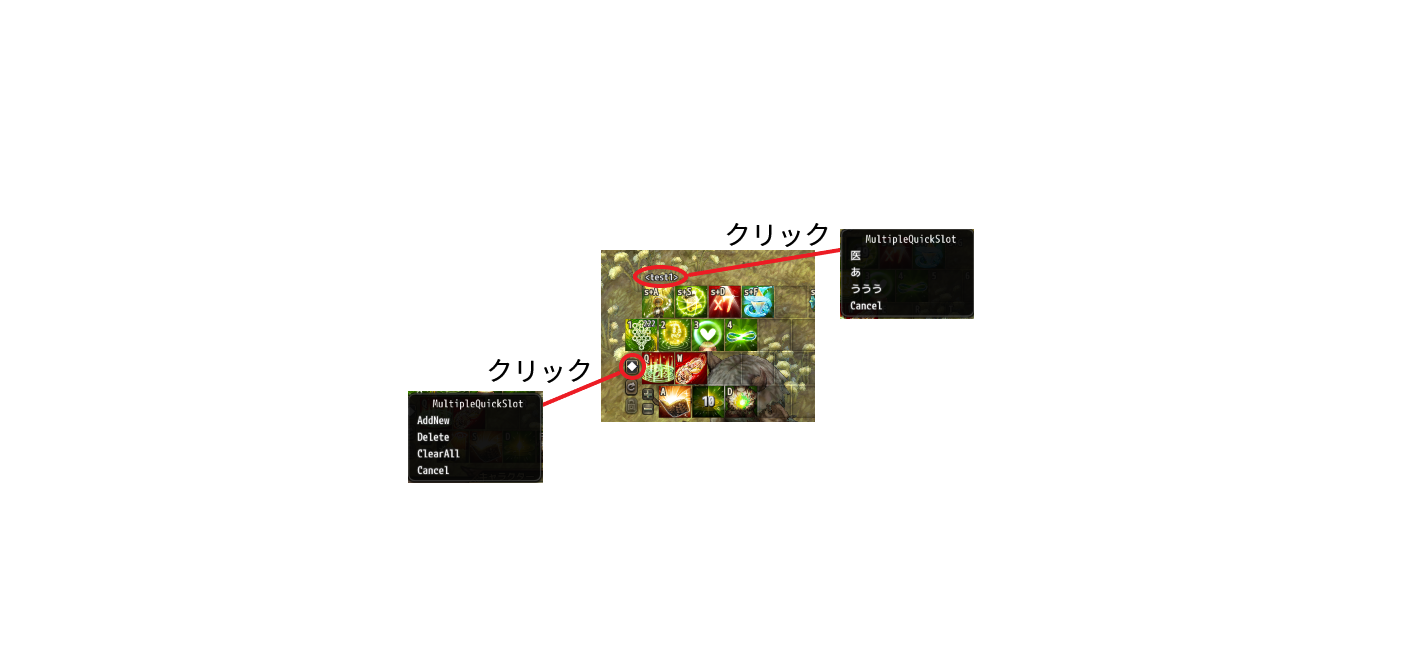
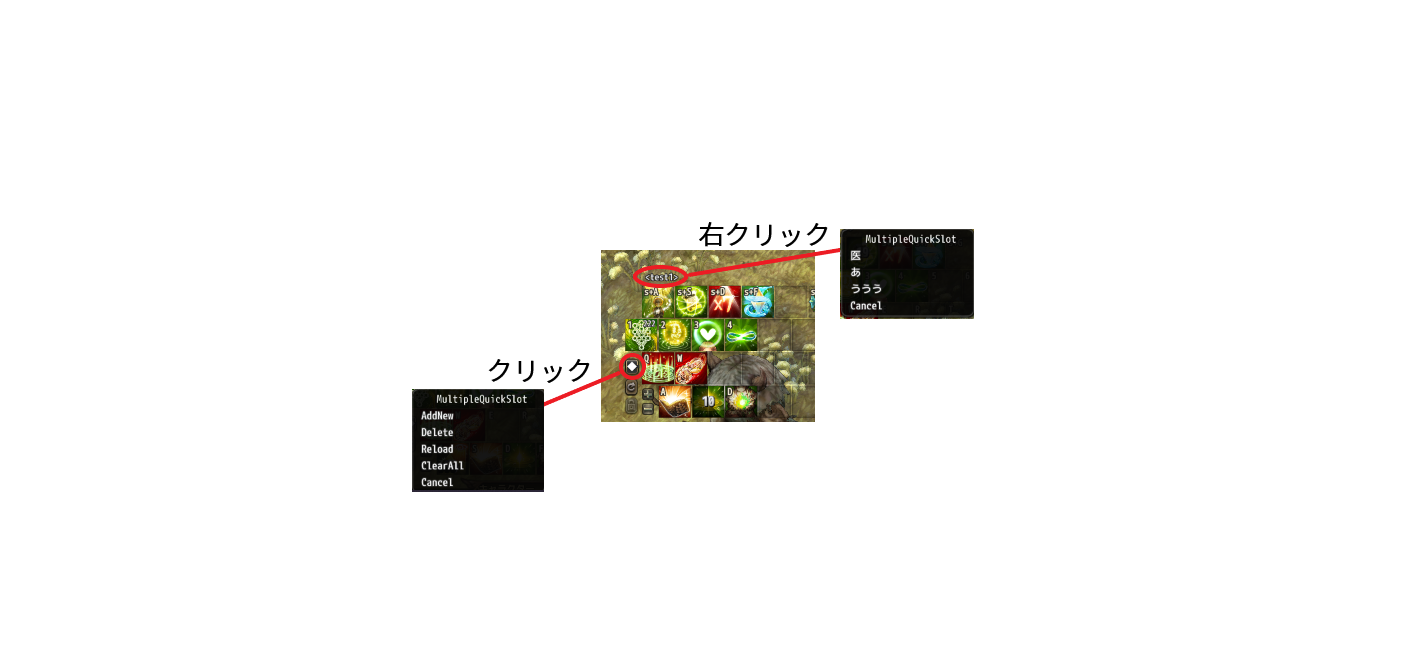
- キーアサインが復元されない問題の修正 - クイックスロットセット名ラベルの表示位置調整機能追加

Changed region(s): [[0.2797, 0.5625, 0.404, 0.75], [0.4972, 0.3438, 0.5282, 0.375]]

diff --git a/multiplequickslot/README.md b/multiplequickslot/README.md
@@ -4,6 +4,12 @@
 
 # 使い方
 
+## 準備
+
+ipfファイルをインストールします。
+
+addons/multiplequickslotフォルダを作成します。
+
 ## 概要
 
 ![概要](https://raw.githubusercontent.com/weizlogy/tos/master/multiplequickslot/usage.png "概要")
@@ -18,6 +24,10 @@
 
 指定した名前のクイックスロットセットを削除します。（メニュー選択後、入力ダイアログがでます。
 
+- Reload (v1.0.2)
+
+各種設定を再読み込みします。
+
 - ClearAll
 
 現在のクイックスロットを空にします。（メニュー選択後、確認ダイアログがでます。
@@ -29,4 +39,20 @@
 ## クイックスロットセット名ラベル
 
 最後に選択したクイックスロットセット名を表示します。
-クリックで表示するメニューから別のセットに切り替えることができます。
+右クリックで表示するメニューから別のセットに切り替えることができます。
+
+### ラベル表示位置調整
+
+Settings.txtをダウンロードしてaddons/multiplequickslot下に置きます。
+
+[Settings.txt](https://github.com/weizlogy/tos/releases/download/multiplequickslot/Settings.txt)
+
+labelX、labelY の数値を変えつつ、◆メニューのReloadで反映させて確認してください。（これはキャラ共通です
+
+```lua
+local s = {
+  ['labelX'] = '0',  -- ラベルのX座標を調整する
+  ['labelY'] = '0',  -- ラベルのY座標を調整する
+}
+return s
+```
